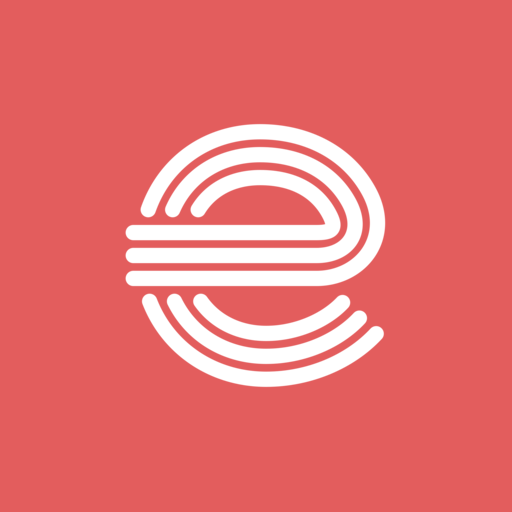
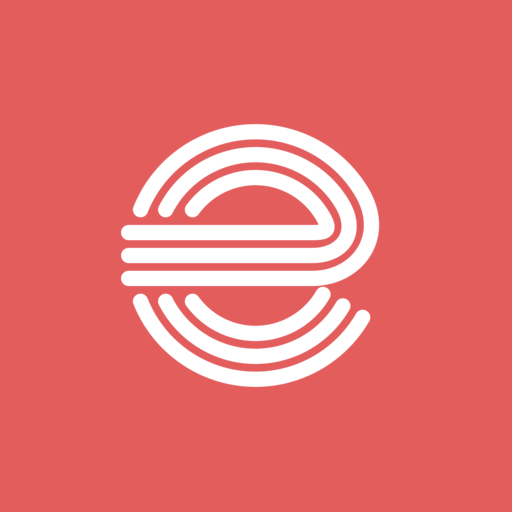
fix(brand): make e mark arcs concentric

Changed region(s): [[0.25, 0.2188, 0.75, 0.7812], [0.2188, 0.4375, 0.25, 0.5625]]

diff --git a/scripts/generate-brand-app-icons.test.py b/scripts/generate-brand-app-icons.test.py
@@ -3,6 +3,8 @@
 
 from __future__ import annotations
 
+import math
+import re
 import shutil
 import struct
 import subprocess
@@ -21,6 +23,7 @@ RENDERER = ROOT / "scripts" / "render-logo-e-pngs.sh"
 ANDROID_NS = "http://schemas.android.com/apk/res/android"
 LOGO_SIZE_DP = 58
 LAUNCHER_BACKGROUND = (227, 93, 93, 255)
+LOGO_CENTER = (125, 128)
 
 DENSITIES = {
     "ldpi": (81, 36),
@@ -29,6 +32,17 @@ DENSITIES = {
     "xhdpi": (216, 96),
     "xxhdpi": (324, 144),
     "xxxhdpi": (432, 192),
+}
+
+# The circular track center is canvas-centered. The e's leftward crossbars make
+# its overall ink bounds intentionally asymmetric; lock those bounds explicitly.
+EXPECTED_FOREGROUND_BOUNDS = {
+    "ldpi": (18, 18, 60, 61),
+    "mdpi": (25, 25, 80, 82),
+    "hdpi": (37, 38, 119, 122),
+    "xhdpi": (50, 52, 160, 163),
+    "xxhdpi": (76, 78, 240, 245),
+    "xxxhdpi": (102, 104, 320, 327),
 }
 
 
@@ -177,6 +191,57 @@ def contains_launcher_red(image: PngImage) -> bool:
 
 
 class BrandIconTest(unittest.TestCase):
+    def test_editable_e_mark_uses_three_exact_concentric_tracks(self) -> None:
+        root = ElementTree.parse(BRAND_DIR / "logo-e.svg").getroot()
+        self.assertEqual(root.attrib["viewBox"], "35 38 180 180")
+        paths = root.findall("{http://www.w3.org/2000/svg}path")
+        self.assertEqual(len(paths), 3)
+
+        tracks = ((113, 51), (128, 66), (143, 81))
+        for path, (horizontal_y, radius) in zip(paths, tracks, strict=True):
+            data = " ".join(path.attrib["d"].split())
+            self.assertRegex(data, rf"^M 42 {horizontal_y} H 162 C ")
+
+            upper = re.search(
+                rf"C (?:[-\d.]+ ){{4}}([-\d.]+) ([-\d.]+) "
+                rf"A {radius} {radius} 0 0 0 ([-\d.]+) 98",
+                data,
+            )
+            self.assertIsNotNone(upper)
+            lower = re.search(
+                rf"M ([-\d.]+) 158 A {radius} {radius} 0 0 0 "
+                rf"([-\d.]+) ([-\d.]+)$",
+                data,
+            )
+            self.assertIsNotNone(lower)
+            assert upper is not None and lower is not None
+
+            points = (
+                (float(upper[1]), float(upper[2])),
+                (float(upper[3]), 98.0),
+                (float(lower[1]), 158.0),
+                (float(lower[2]), float(lower[3])),
+            )
+            for x, y in points:
+                self.assertAlmostEqual(
+                    math.hypot(x - LOGO_CENTER[0], y - LOGO_CENTER[1]),
+                    radius,
+                    delta=0.001,
+                )
+
+            terminal_angle = math.degrees(
+                math.atan2(
+                    float(lower[3]) - LOGO_CENTER[1],
+                    float(lower[2]) - LOGO_CENTER[0],
+                )
+            )
+            self.assertAlmostEqual(terminal_angle, 30, delta=0.001)
+
+        self.assertEqual(
+            [tracks[index][1] - tracks[index - 1][1] for index in range(1, 3)],
+            [15, 15],
+        )
+
     def test_white_launcher_and_splash_foreground_matches_density_and_safe_zone(self) -> None:
         for density, (adaptive_size, _) in DENSITIES.items():
             with self.subTest(density=density):
@@ -188,8 +253,10 @@ class BrandIconTest(unittest.TestCase):
                 safe_size = scaled_safe_size(adaptive_size)
                 self.assertLessEqual(right - left + 1, safe_size)
                 self.assertLessEqual(bottom - top + 1, safe_size)
-                self.assertLessEqual(abs((left + right + 1) - adaptive_size), 2)
-                self.assertLessEqual(abs((top + bottom + 1) - adaptive_size), 2)
+                self.assertEqual(
+                    (left, top, right, bottom),
+                    EXPECTED_FOREGROUND_BOUNDS[density],
+                )
                 self.assertTrue(contains_white_ink(image))
 
     def test_legacy_icons_match_density_and_masks(self) -> None:
